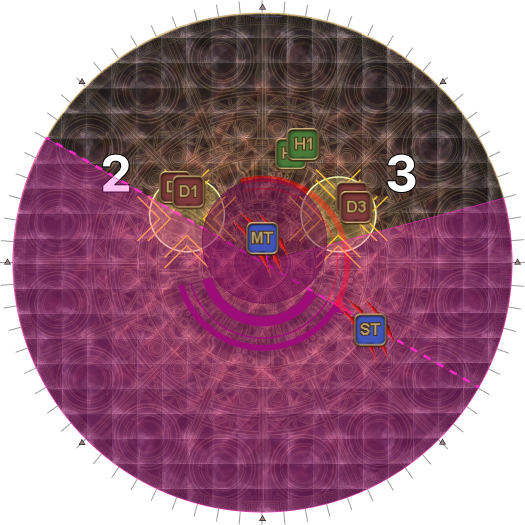
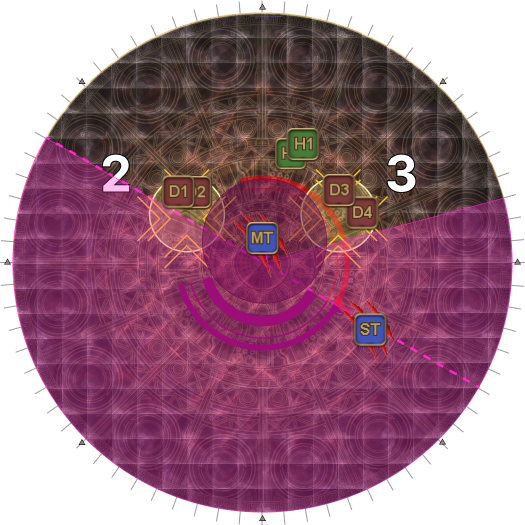
Fix Paradise Regained towers

Changed region(s): [[0.6095, 0.3352, 0.7314, 0.4571], [0.3048, 0.3048, 0.4267, 0.3962]]

diff --git a/_mana/fru/05_pandora.md b/_mana/fru/05_pandora.md
@@ -197,7 +197,7 @@ This is the most complex mechanic of the phase.
   </tr>
   <tr>
     <td colspan="2" width="50%">
-      <p><b>14.</b> The second tower appears.</p>
+      <p><b>14.</b> The second tower appears, either "North-West" or "Nortth-East".</p>
       <p>At the same time, the boss will cast <em>Wings Dark and Light</em>, and 
       one of the boss's wings will glow.</p>
       <ul>
@@ -239,7 +239,8 @@ This is the most complex mechanic of the phase.
   </tr>
   <tr>
     <td colspan="2">
-      <p><b>15.</b> The third tower appears and the other wing glows.</p>
+      <p><b>15.</b> The third tower appears North-West or North-East (wherever the second
+      tower isn't) and the other wing glows.</p>
     </td>
   </tr>
   <tr>
@@ -264,7 +265,7 @@ This is the most complex mechanic of the phase.
         cleave was Light, move in instead.</li>
         <li><b>H1, H2:</b> Move North after resolving your tower.</li>
         <li><b>D1, D2:</b> Move to the far-side tower that was just cleaved.</li>
-        <li><b>D3, D4:</b> Stay in the near-side tower.</li>
+        <li><b>D3, D4:</b> Move into the near-side tower.</li>
       </ul>
     </td>
   </tr>
@@ -281,7 +282,8 @@ This is the most complex mechanic of the phase.
       <p><b>17.</b> The boss now cleaves the ST, and hits the tethered player
       (which should now be the MT) with an AoE tankbuster.</p>
       <p>This second cleave resolves together with the second tower (which
-      should be taken by two DPS).</p>
+      is taken by either the two melee or two ranged, depending on which side the second
+      tower spawned).</p>
     </td>
   </tr>
   <tr>
@@ -294,7 +296,8 @@ This is the most complex mechanic of the phase.
   </tr>
   <tr>
     <td>
-      <p><b>18.</b> The two remaining DPS stay put for the third tower.</p>
+      <p><b>18.</b> The two remaining DPS (both melee or ranged) stay put for the third
+      tower.</p>
     </td>
     <td>
       <img src="{{site.baseurl}}/images/ultimates/fru_mana/05/paradise_regained_06.jpg">
@@ -302,9 +305,8 @@ This is the most complex mechanic of the phase.
   </tr>
 </table>
 
-Have the MT *Provoke* to take the boss back, and face the boss to any of the
-eight cardinal/intercardinal markers to prepare for the final mechanic of the
-loop.
+Have the MT *Provoke* to take the boss back, and face the boss **North** to prepare for
+the final mechanic of the loop.
 
 ---
 
